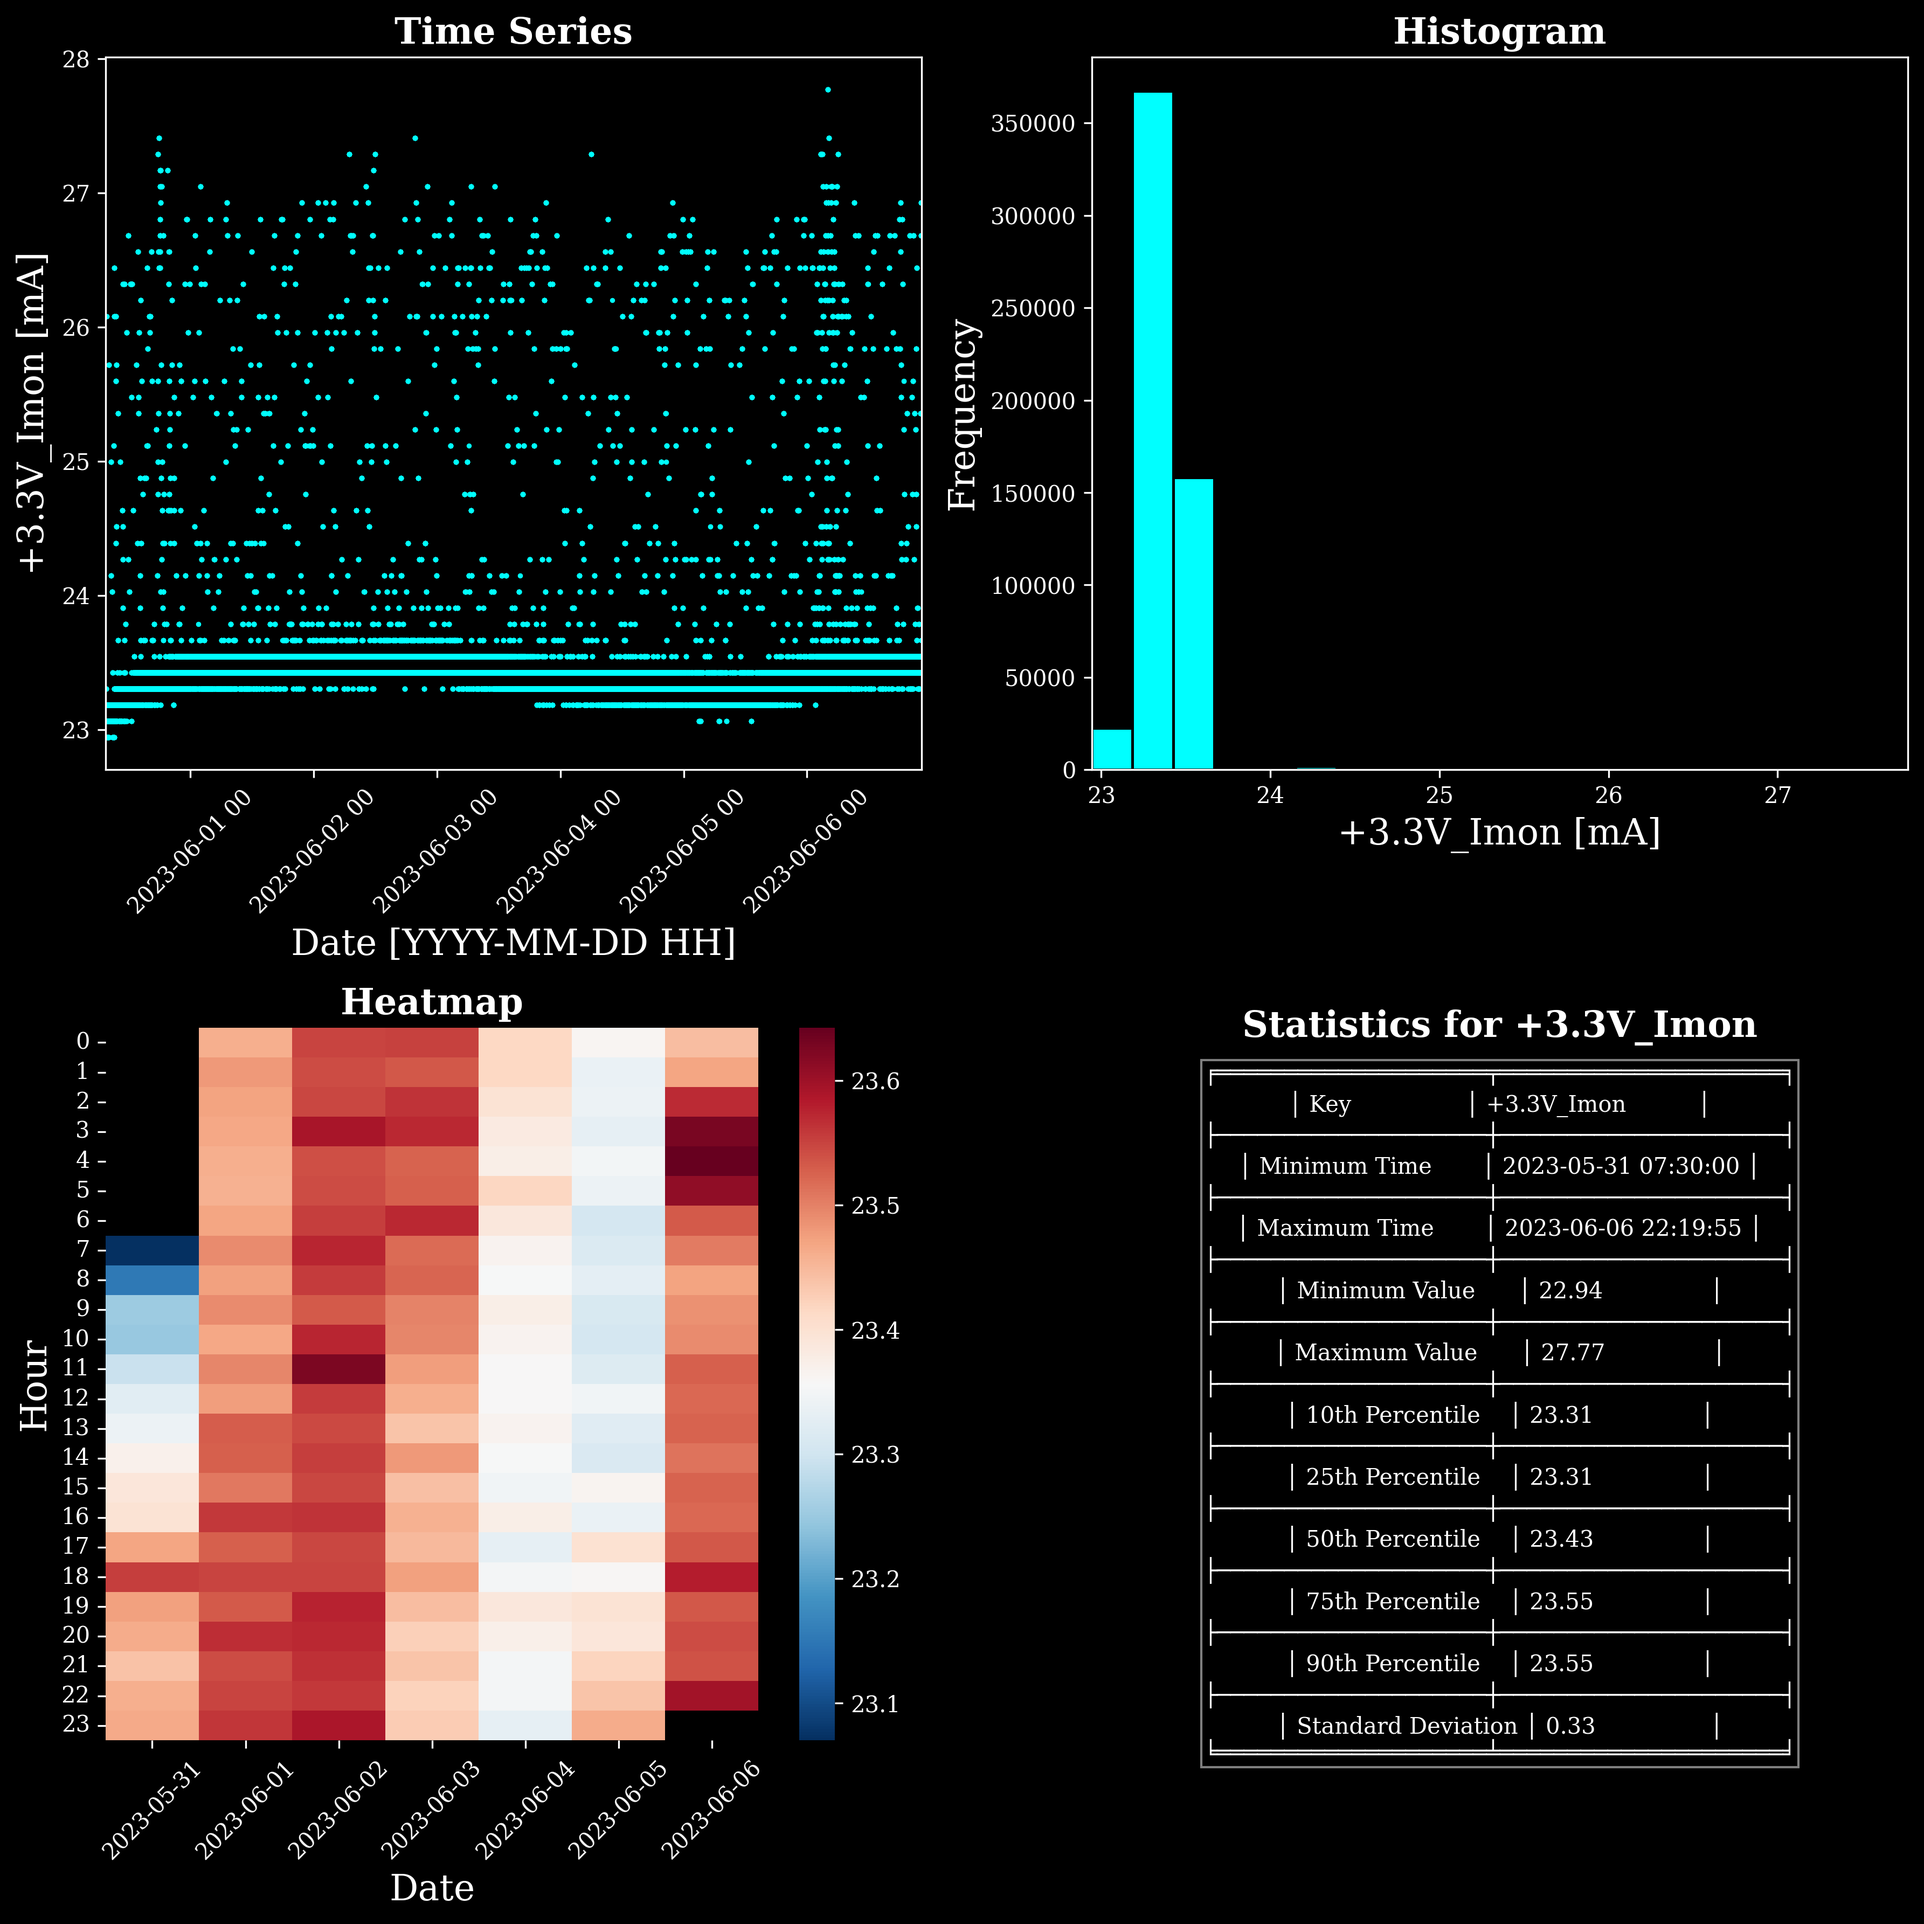
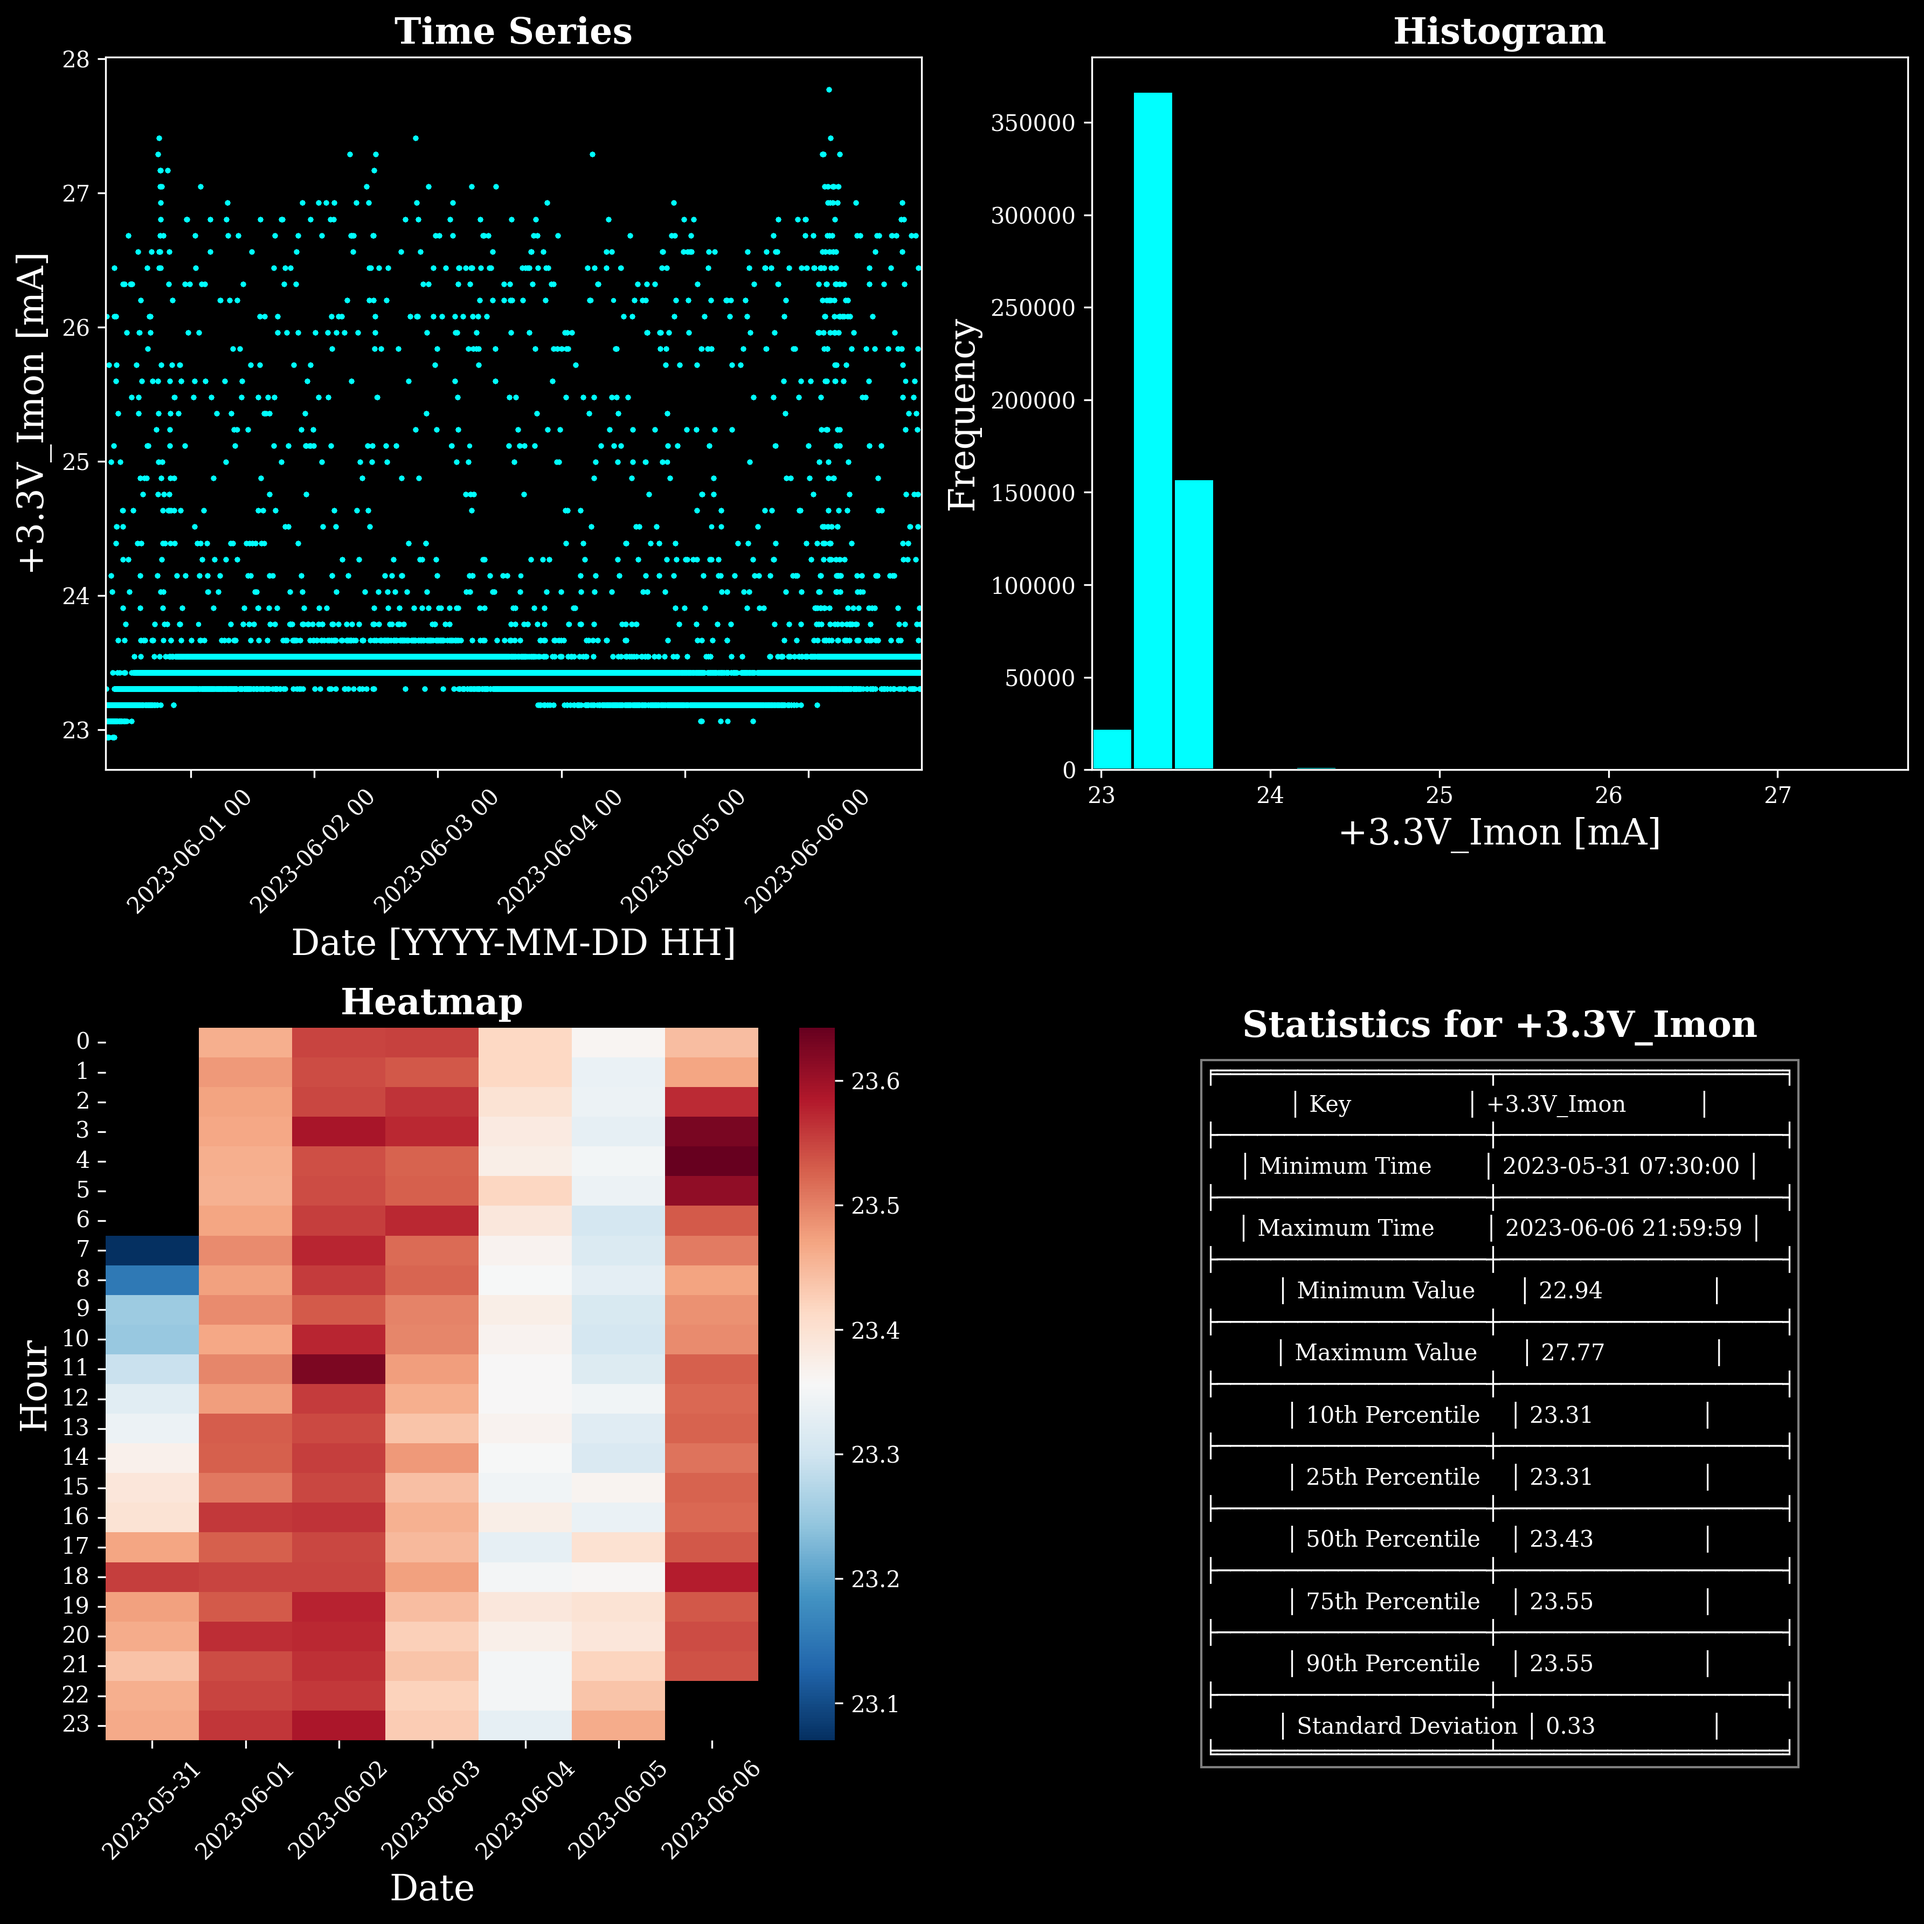
figure update

Changed region(s): [[0.342, 0.8706, 0.4042, 0.9017], [0.4042, 0.4353, 0.4353, 0.4664]]

diff --git a/codes/read_hv_files.py b/codes/read_hv_files.py
@@ -250,7 +250,7 @@ if __name__ == "__main__":
         "save_fig": True,
         "fig_name": None,
         "start_time": "2023-05-31 07:30:00",
-        "end_time": "2024-06-06 21:30:00",
+        "end_time": "2023-06-06 22:00:00",
         "fig_folder": "/home/cephadrius/Desktop/git/Lexi-BU/lxi_gui/figures",
         "fig_size": (12, 12),
         "fig_dpi": 300,
